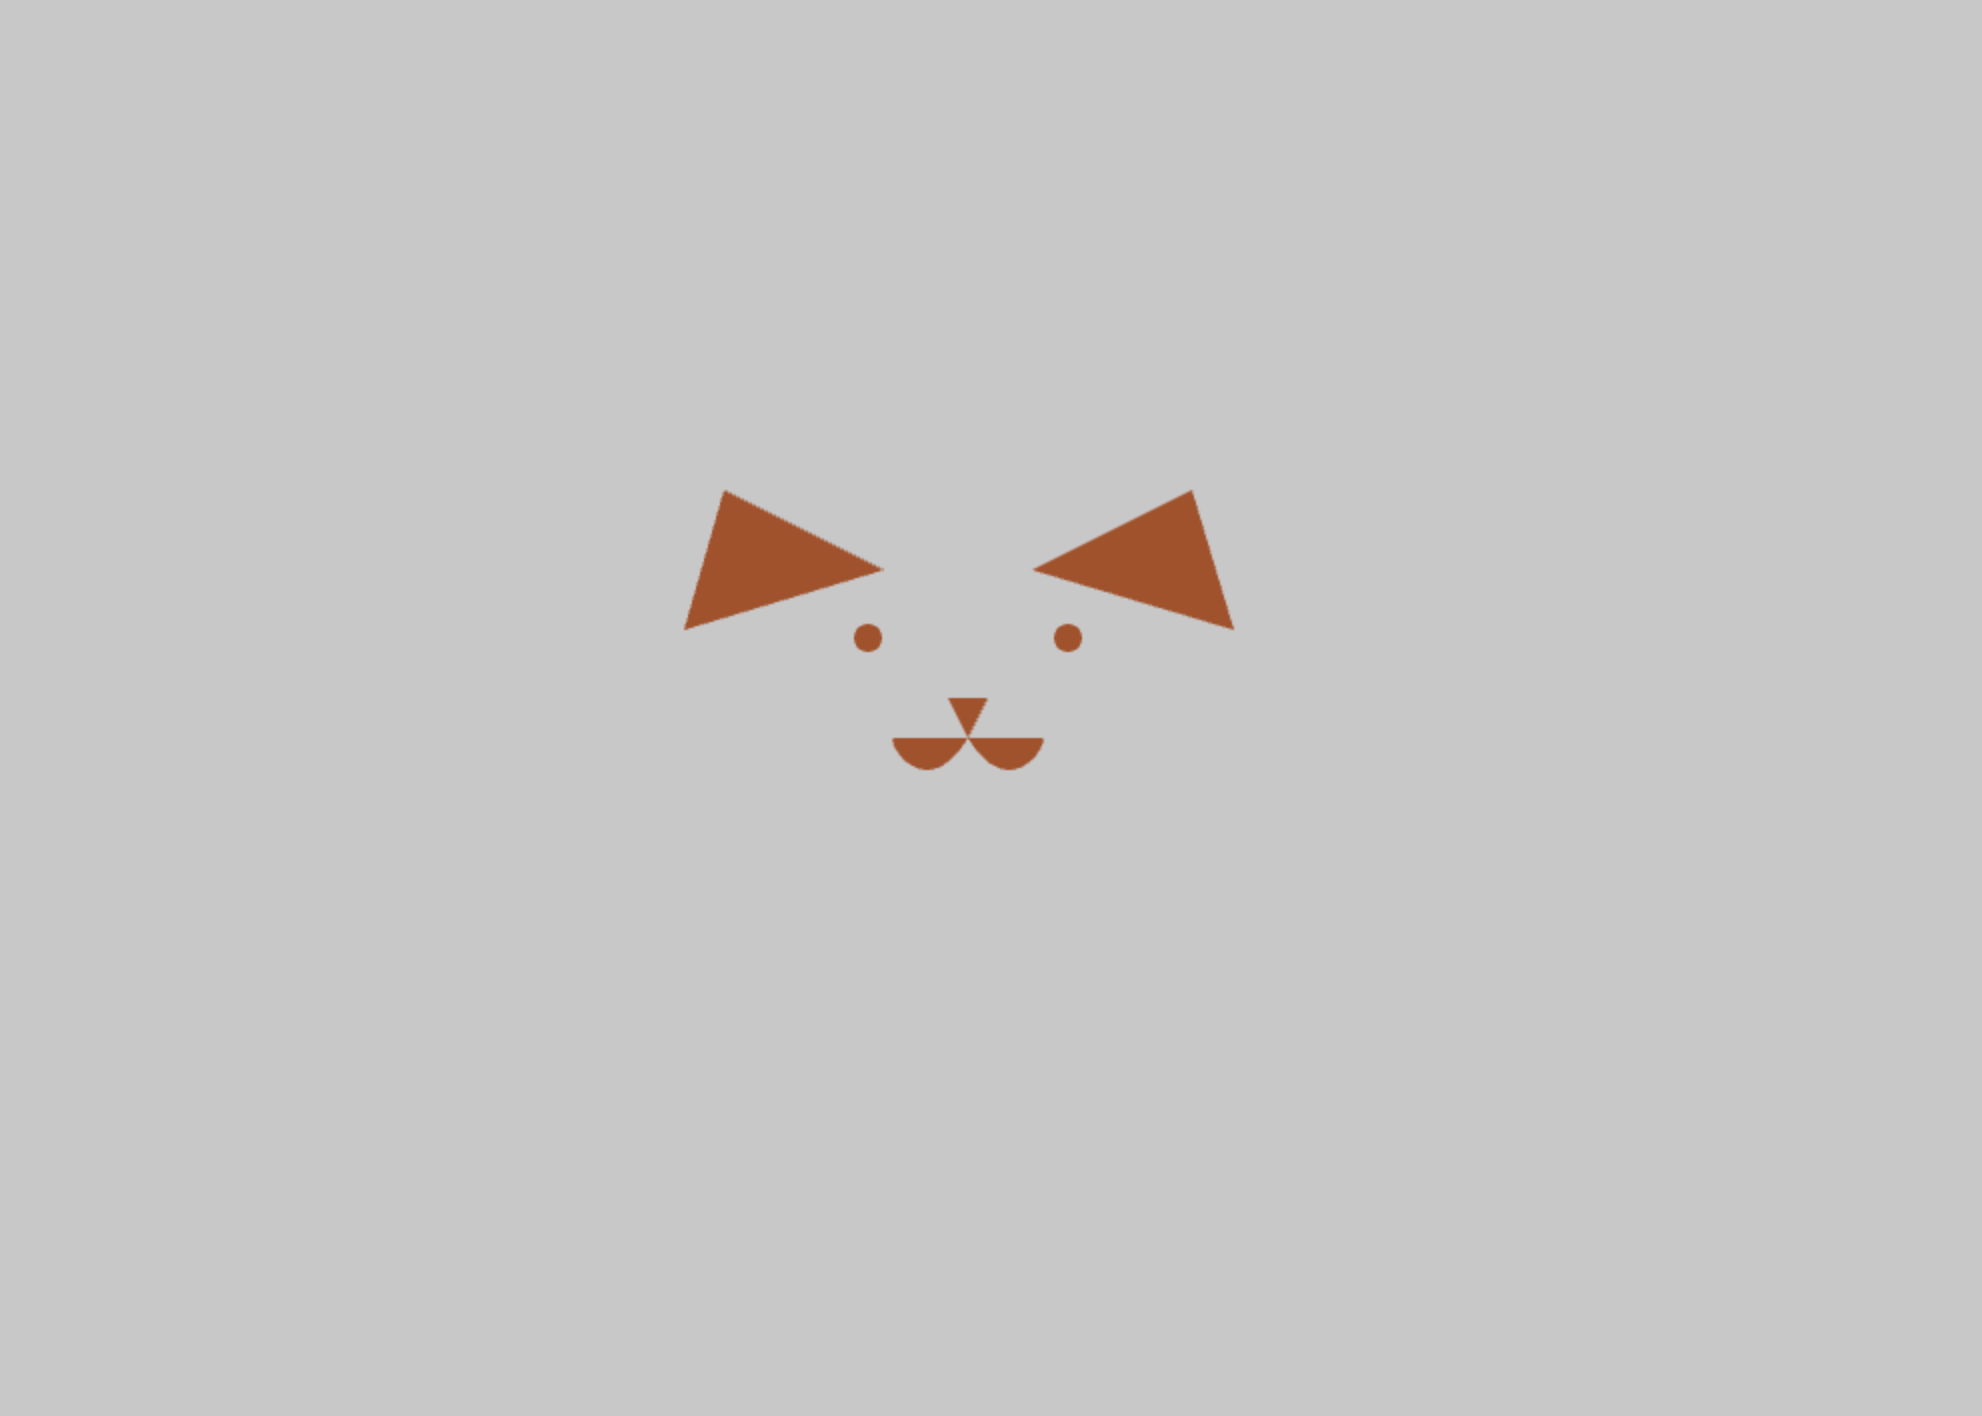
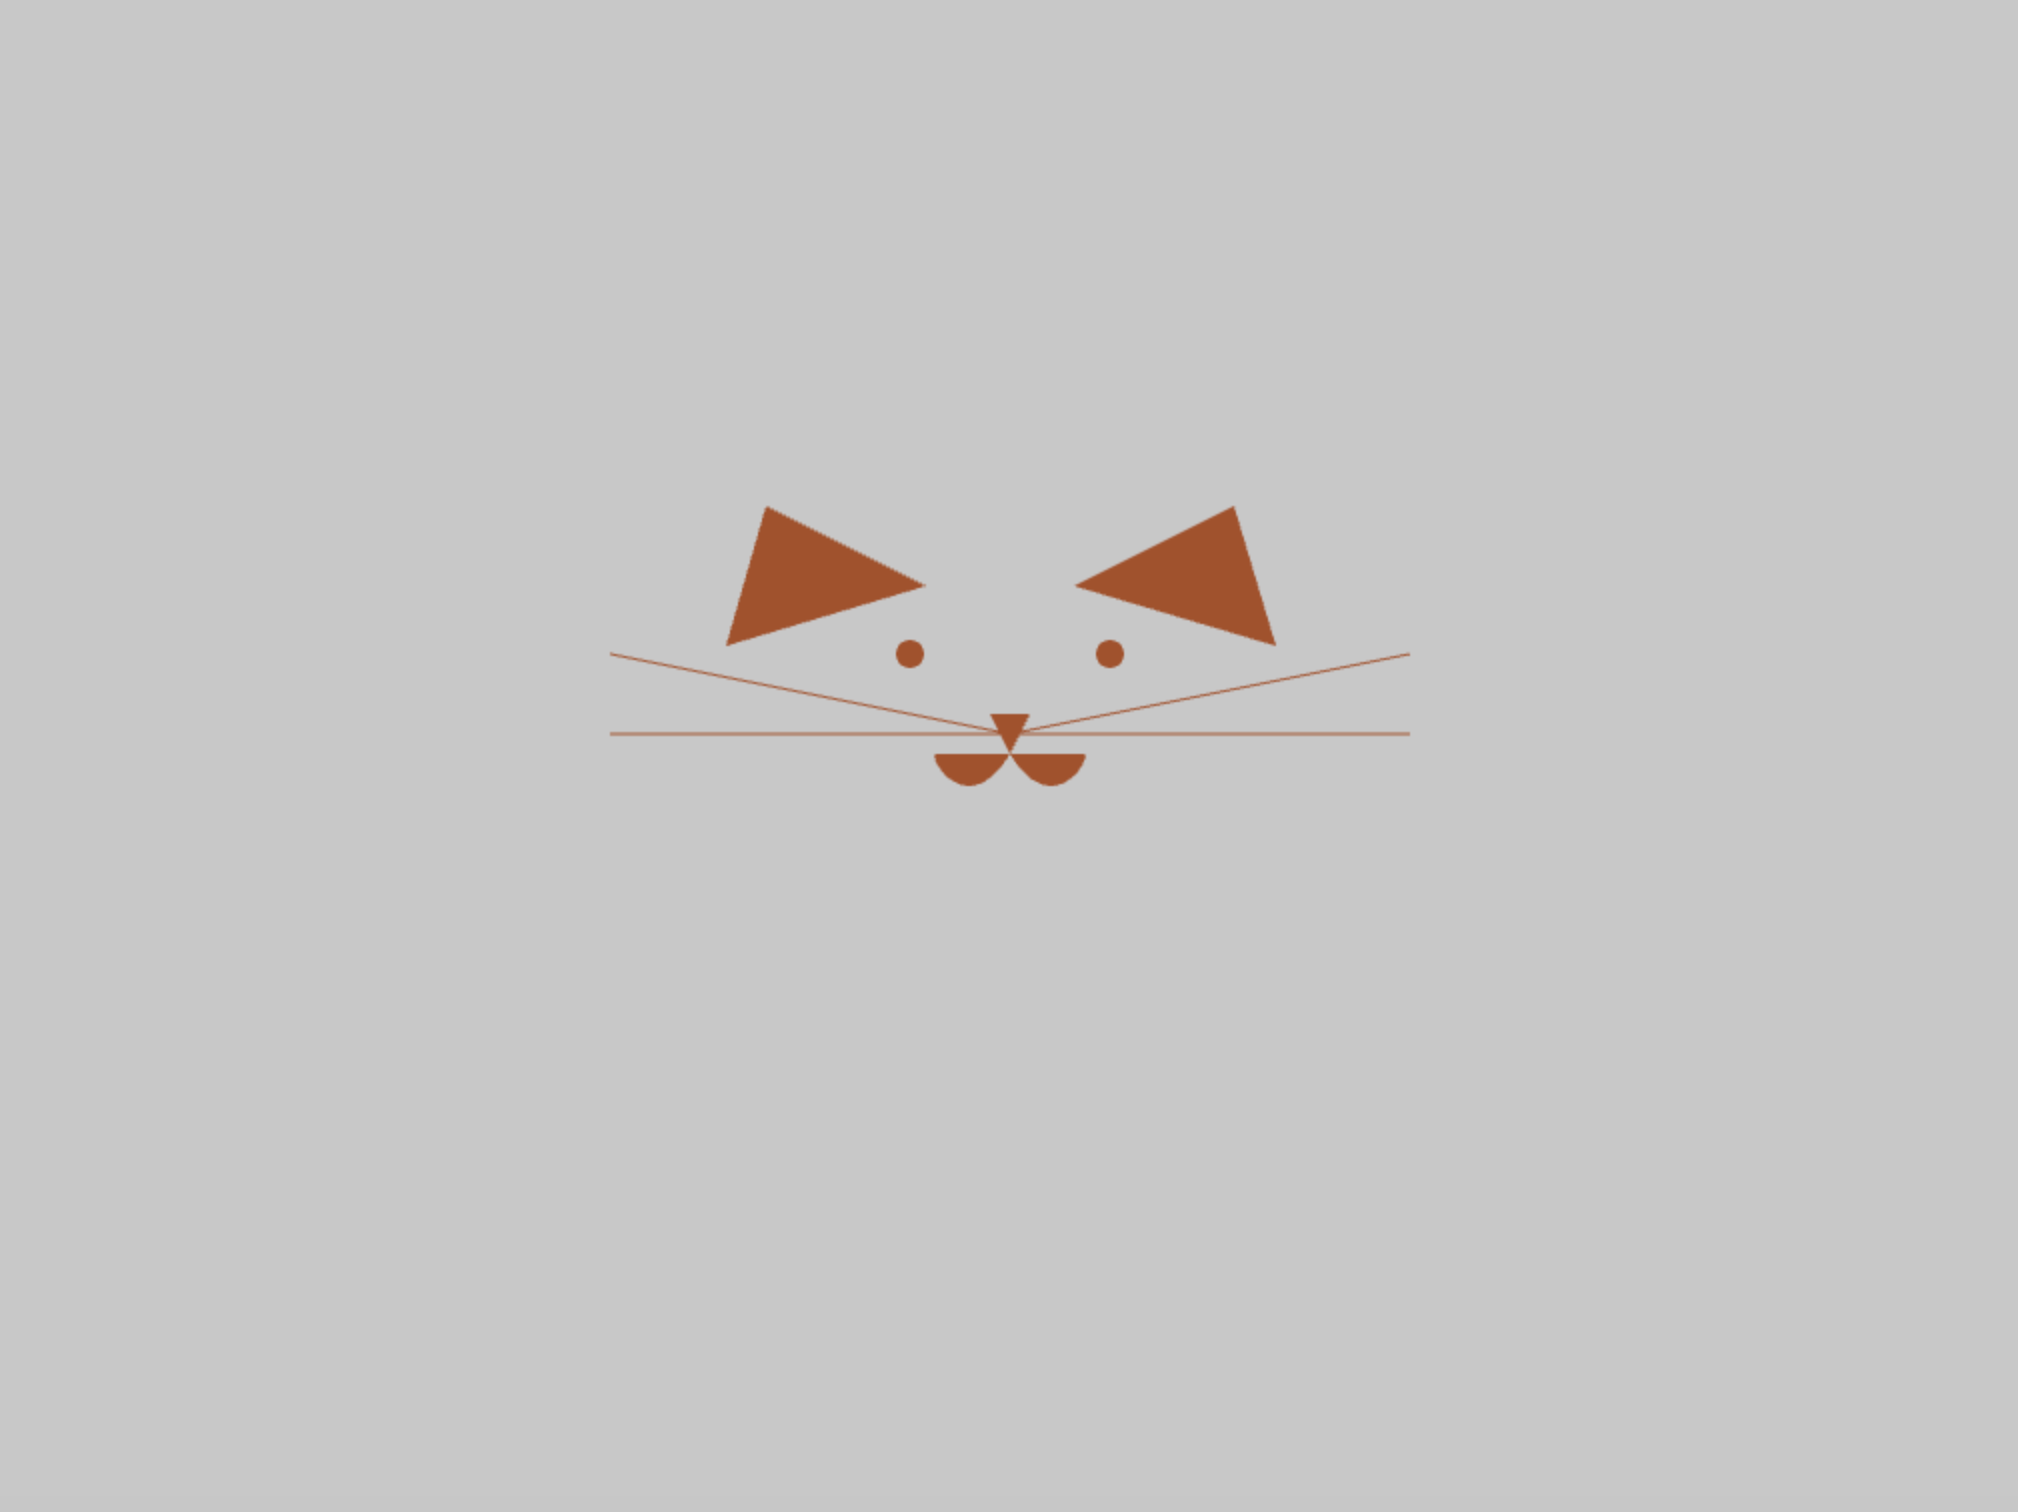
media

Changed region(s): [[0.3078, 0.3418, 0.6771, 0.5593]]

diff --git a/Assignment_4/src/ofApp.cpp b/Assignment_4/src/ofApp.cpp
@@ -8,83 +8,110 @@ void ofApp::setup(){
     midY = ofGetWindowHeight() / 2;
 }
 
+bool drawFirst = true;
+bool drawSecond = true;
+
 //--------------------------------------------------------------
 void ofApp::update(){
-
+    int sec = (ofGetFrameNum() / 60) % 60;
+    drawFirst = sec < 2;
+    drawSecond = sec < 4;
+    
 }
 
 //--------------------------------------------------------------
 void ofApp::draw(){
     ofSetColor(160,82,45);
+    if (drawFirst){
+        ofDrawTriangle(502, 364, midX, midY, 522, 364);
+        ofDrawCircle(midX+50, midY-50, 7);
+        ofDrawCircle(midX-50, midY-50, 7);
+        ofDrawBezier(midX, midY, 490, 420, 470, 384, 475,midY);
+        ofDrawBezier(midX, midY, 534, 420, 554, 384, 549,midY);
+        //ears
+        ofDrawTriangle(370, 330, 470, 300, 390, 260);
+        ofDrawTriangle(645, 330, 544, 300, 624, 260);
+        //wiskers left
+        ofDrawLine(midX, midY-10, midX-200, midY-50);
+        ofDrawLine(midX, midY-10, midX-200, midY-10);
+        //wiskers right
+        ofDrawLine(midX, midY-10, midX+200, midY-50);
+        ofDrawLine(midX, midY-10, midX+200, midY-10);
+    }
     
-    ofDrawTriangle(502, 364, midX, midY, 522, 364);
-    ofDrawCircle(midX+50, midY-50, 7);
-    ofDrawCircle(midX-50, midY-50, 7);
-    ofDrawBezier(midX, midY, 490, 420, 470, 384, 475,midY);
-    ofDrawBezier(midX, midY, 534, 420, 554, 384, 549,midY);
-    ofDrawTriangle(370, 330, 470, 300, 390, 260);
-    ofDrawTriangle(645, 330, 544, 300, 624, 260);
-    //wiskers left
-    ofDrawLine(midX, midY-10, midX-200, midY-50);
-    ofDrawLine(midX, midY-10, midX-200, midY-10);
-    //wiskers right
-    ofDrawLine(midX, midY-10, midX+200, midY-50);
-    ofDrawLine(midX, midY-10, midX+200, midY-10);
-
-
+    if (drawSecond){
+        ofDrawTriangle(502, 364, midX, midY, 522, 364);
+        ofDrawCircle(midX+50, midY-50, 10);
+        ofDrawCircle(midX-50, midY-50, 10);
+        ofDrawBezier(midX, midY, 490, 420, 470, 384, 475,midY);
+        ofDrawBezier(midX, midY, 534, 420, 554, 384, 549,midY);
+        //ears
+        ofDrawTriangle(370, 330, 470, 300, 390, 300);
+        ofDrawTriangle(645, 330, 544, 300, 624, 300);
+        //wiskers left
+        ofDrawLine(midX, midY-10, midX-200, midY-5);
+        ofDrawLine(midX, midY-10, midX-200, midY);
+        //wiskers right
+        ofDrawLine(midX, midY-10, midX+200, midY-5);
+        ofDrawLine(midX, midY-10, midX+200, midY);
+        
+        
+    }
+    
+    
 }
 
 //--------------------------------------------------------------
 void ofApp::keyPressed(int key){
-
+    
 }
 
 //--------------------------------------------------------------
 void ofApp::keyReleased(int key){
-
+    
 }
 
 //--------------------------------------------------------------
 void ofApp::mouseMoved(int x, int y ){
-
+    
 }
 
 //--------------------------------------------------------------
 void ofApp::mouseDragged(int x, int y, int button){
-
+    
 }
 
 //--------------------------------------------------------------
 void ofApp::mousePressed(int x, int y, int button){
-
+    
 }
 
 //--------------------------------------------------------------
 void ofApp::mouseReleased(int x, int y, int button){
-
+    
 }
 
 //--------------------------------------------------------------
 void ofApp::mouseEntered(int x, int y){
-
+    
 }
 
 //--------------------------------------------------------------
 void ofApp::mouseExited(int x, int y){
-
+    
 }
 
 //--------------------------------------------------------------
 void ofApp::windowResized(int w, int h){
-
+    
 }
 
 //--------------------------------------------------------------
 void ofApp::gotMessage(ofMessage msg){
-
+    
 }
 
 //--------------------------------------------------------------
-void ofApp::dragEvent(ofDragInfo dragInfo){ 
-
+void ofApp::dragEvent(ofDragInfo dragInfo){
+    
 }
